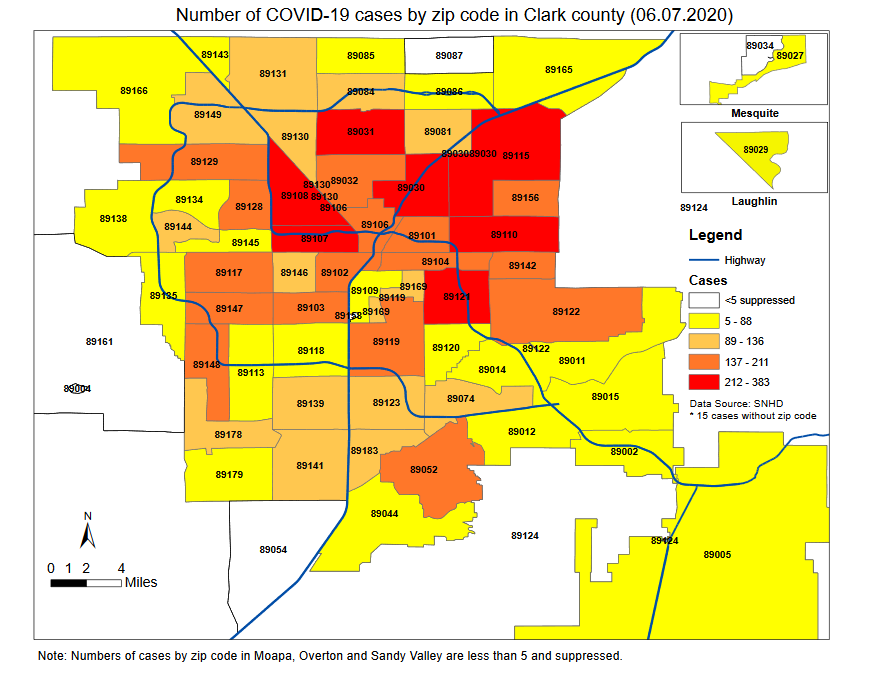
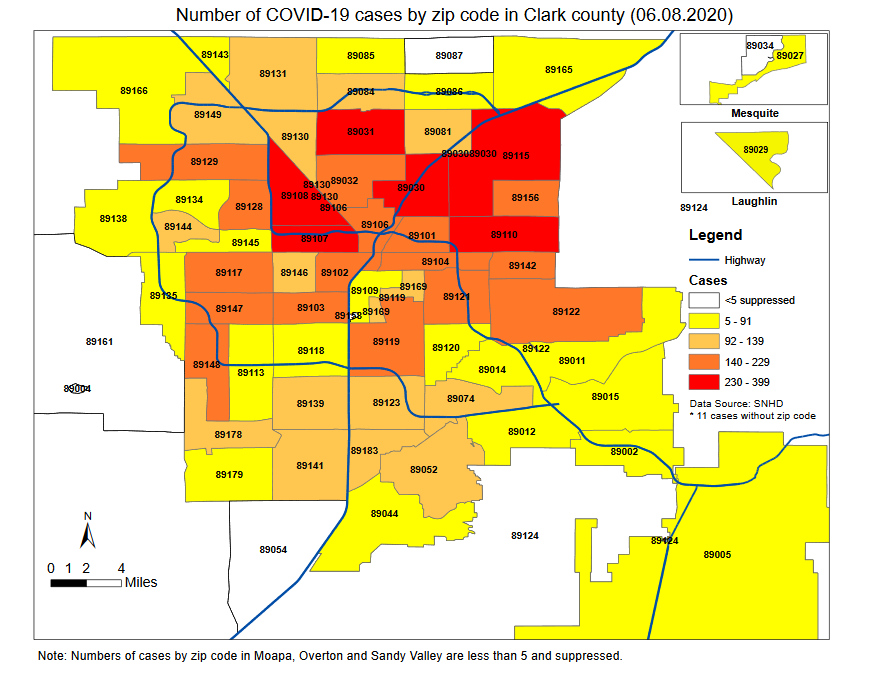
da stats

diff --git a/src/pages/nevada.js b/src/pages/nevada.js
@@ -107,6 +107,7 @@ class NevadaPage extends Component {
 				'6/05/20',
 				'6/06/20',
 				'6/07/20',
+				'6/08/20',
 			],
 			datasets: [
 				{
@@ -208,6 +209,7 @@ class NevadaPage extends Component {
 						9460,
 						9649,
 						9786,
+						10030,
 					],
 					fill: false, // Don't fill area under the line
 					backgroundColor: '#933A16', // Line color
@@ -312,6 +314,7 @@ class NevadaPage extends Component {
 				'6/05/20',
 				'6/06/20',
 				'6/07/20',
+				'6/08/20',
 			],
 			datasets: [
 				{
@@ -418,6 +421,7 @@ class NevadaPage extends Component {
 						154,
 						164,
 						171,
+						188,
 					],
 				},
 				{
@@ -520,6 +524,7 @@ class NevadaPage extends Component {
 						194,
 						189,
 						137,
+						244,
 					],
 					fill: false, // Don't fill area under the line
 					backgroundColor: '#933A16', // Bar color
@@ -624,6 +629,7 @@ class NevadaPage extends Component {
 				'6/05/20',
 				'6/06/20',
 				'6/07/20',
+				'6/08/20',
 			],
 			datasets: [
 				{
@@ -716,15 +722,16 @@ class NevadaPage extends Component {
 						412,
 						417,
 						426,
-						429,
-						432,
-						434,
-						438,
-						440,
-						442,
-						442,
-						442,
-						442,
+						430,
+						433,
+						435,
+						439,
+						441,
+						444,
+						444,
+						444,
+						444,
+						444,
 					],
 					backgroundColor: 'maroon',
 				},
@@ -817,6 +824,7 @@ class NevadaPage extends Component {
 				'6/05/20',
 				'6/06/20',
 				'6/07/20',
+				'6/08/20',
 			],
 			datasets: [
 				{
@@ -902,14 +910,15 @@ class NevadaPage extends Component {
 						3,
 						3,
 						4,
-						4,
+						5,
+						5,
 						5,
 						4,
-						4,
 						3,
 						3,
 						2,
 						2,
+						1,
 						1,
 					],
 				},
@@ -992,12 +1001,13 @@ class NevadaPage extends Component {
 						3,
 						5,
 						9,
-						3,
+						4,
 						3,
 						2,
 						4,
 						2,
-						2,
+						3,
+						0,
 						0,
 						0,
 						0,
@@ -1084,6 +1094,7 @@ class NevadaPage extends Component {
 				'6/05/20',
 				'6/06/20',
 				'6/07/20',
+				'6/08/20',
 			],
 			datasets: [
 				{
@@ -1168,6 +1179,7 @@ class NevadaPage extends Component {
 						5.5,
 						5.5,
 						5.4,
+						5.5,
 					],
 				},
 				{
@@ -1177,6 +1189,7 @@ class NevadaPage extends Component {
 					borderColor: '#933A16',
 					pointRadius: 1,
 					data: [
+						10.0,
 						10.0,
 						10.0,
 						10.0,
@@ -1338,6 +1351,7 @@ class NevadaPage extends Component {
 						5.0,
 						5.0,
 						5.0,
+						5.0,
 					],
 				},
 			],
@@ -1373,7 +1387,7 @@ class NevadaPage extends Component {
 										</div>
 									</div>
 									<div className='card-value pt-4'>
-										<h1>180,003</h1>
+										<h1>183,514</h1>
 									</div>
 								</div>
 							</div>
@@ -1385,7 +1399,7 @@ class NevadaPage extends Component {
 										</div>
 									</div>
 									<div className='card-value pt-4'>
-										<h1>170,217</h1>
+										<h1>173,559</h1>
 									</div>
 								</div>
 							</div>
@@ -1397,7 +1411,7 @@ class NevadaPage extends Component {
 										</div>
 									</div>
 									<div className='card-value pt-4'>
-										<h1>9,786</h1>
+										<h1>10,030</h1>
 									</div>
 								</div>
 							</div>
@@ -1409,7 +1423,7 @@ class NevadaPage extends Component {
 										</div>
 									</div>
 									<div className='card-value pt-4'>
-										<h1>442</h1>
+										<h1>444</h1>
 									</div>
 								</div>
 							</div>

diff --git a/src/pages/clarkcounty.js b/src/pages/clarkcounty.js
@@ -112,6 +112,7 @@ class ClarkPage extends Component {
 				'6/05/20',
 				'6/06/20',
 				'6/07/20',
+				'6/08/20',
 			],
 			datasets: [
 				{
@@ -214,6 +215,7 @@ class ClarkPage extends Component {
 						7331,
 						7483,
 						7592,
+						7799,
 					],
 				},
 			],
@@ -317,6 +319,7 @@ class ClarkPage extends Component {
 				'6/05/20',
 				'6/06/20',
 				'6/07/20',
+				'6/08/20',
 			],
 			datasets: [
 				{
@@ -423,6 +426,7 @@ class ClarkPage extends Component {
 						122,
 						128,
 						134,
+						149,
 					],
 				},
 				{
@@ -525,6 +529,7 @@ class ClarkPage extends Component {
 						145,
 						152,
 						109,
+						207,
 					],
 				},
 			],
@@ -608,6 +613,7 @@ class ClarkPage extends Component {
 				'6/05/20',
 				'6/06/20',
 				'6/07/20',
+				'6/08/20',
 			],
 			datasets: [
 				{
@@ -690,6 +696,7 @@ class ClarkPage extends Component {
 						1633,
 						1636,
 						1641,
+						1665,
 					],
 				},
 			],
@@ -772,6 +779,7 @@ class ClarkPage extends Component {
 				'6/05/20',
 				'6/06/20',
 				'6/07/20',
+				'6/08/20',
 			],
 			datasets: [
 				{
@@ -854,6 +862,7 @@ class ClarkPage extends Component {
 						7,
 						3,
 						5,
+						24,
 					],
 				},
 			],
@@ -957,6 +966,7 @@ class ClarkPage extends Component {
 				'6/05/20',
 				'6/06/20',
 				'6/07/20',
+				'6/08/20',
 			],
 			datasets: [
 				{
@@ -1058,6 +1068,7 @@ class ClarkPage extends Component {
 						358,
 						359,
 						363,
+						365,
 					],
 					backgroundColor: 'maroon',
 				},
@@ -1150,6 +1161,7 @@ class ClarkPage extends Component {
 				'6/05/20',
 				'6/06/20',
 				'6/07/20',
+				'6/08/20',
 			],
 			datasets: [
 				{
@@ -1244,6 +1256,7 @@ class ClarkPage extends Component {
 						3,
 						3,
 						3,
+						2,
 					],
 				},
 				{
@@ -1334,6 +1347,7 @@ class ClarkPage extends Component {
 						1,
 						1,
 						4,
+						2,
 					],
 				},
 			],
@@ -1344,7 +1358,7 @@ class ClarkPage extends Component {
 			datasets: [
 				{
 					label: 'Age of Cases',
-					data: [95, 333, 600, 3288, 1843, 1430],
+					data: [110, 357, 618, 3389, 1884, 1438],
 					backgroundColor: [
 						'rgb(54, 162, 235)', //blue
 						'rgb(255, 99, 132)', //salmon
@@ -1362,7 +1376,7 @@ class ClarkPage extends Component {
 			datasets: [
 				{
 					label: 'Sex',
-					data: [3898, 3591, 103],
+					data: [4014, 3685, 100],
 					backgroundColor: [
 						'rgb(255, 99, 132)',
 						'rgb(54, 162, 235)',
@@ -1404,7 +1418,7 @@ class ClarkPage extends Component {
 											</div>
 										</div>
 										<div className='card-value pt-4'>
-											<h1>7,592</h1>
+											<h1>7,799</h1>
 										</div>
 									</div>
 								</div>
@@ -1416,7 +1430,7 @@ class ClarkPage extends Component {
 											</div>
 										</div>
 										<div className='card-value pt-4'>
-											<h1>1,641</h1>
+											<h1>1,665</h1>
 										</div>
 									</div>
 								</div>
@@ -1428,7 +1442,7 @@ class ClarkPage extends Component {
 											</div>
 										</div>
 										<div className='card-value pt-4'>
-											<h1>5,864</h1>
+											<h1>5,950</h1>
 										</div>
 									</div>
 								</div>
@@ -1440,7 +1454,7 @@ class ClarkPage extends Component {
 											</div>
 										</div>
 										<div className='card-value pt-4'>
-											<h1>363</h1>
+											<h1>365</h1>
 										</div>
 									</div>
 								</div>
